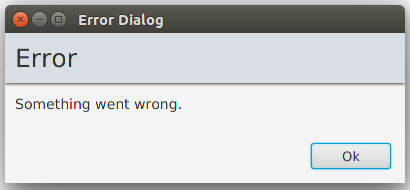
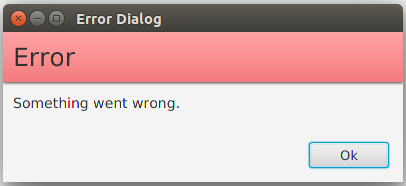
Replace all screenshots for the new color set

diff --git a/src/main/java/com/github/daytron/simpledialogfx/dialog/GenericOKDialog.java b/src/main/java/com/github/daytron/simpledialogfx/dialog/GenericOKDialog.java
@@ -1,0 +1,104 @@
+/*
+ * The MIT License
+ *
+ * Copyright 2014 Ryan Gilera.
+ *
+ * Permission is hereby granted, free of charge, to any person obtaining a copy
+ * of this software and associated documentation files (the "Software"), to deal
+ * in the Software without restriction, including without limitation the rights
+ * to use, copy, modify, merge, publish, distribute, sublicense, and/or sell
+ * copies of the Software, and to permit persons to whom the Software is
+ * furnished to do so, subject to the following conditions:
+ *
+ * The above copyright notice and this permission notice shall be included in
+ * all copies or substantial portions of the Software.
+ *
+ * THE SOFTWARE IS PROVIDED "AS IS", WITHOUT WARRANTY OF ANY KIND, EXPRESS OR
+ * IMPLIED, INCLUDING BUT NOT LIMITED TO THE WARRANTIES OF MERCHANTABILITY,
+ * FITNESS FOR A PARTICULAR PURPOSE AND NONINFRINGEMENT. IN NO EVENT SHALL THE
+ * AUTHORS OR COPYRIGHT HOLDERS BE LIABLE FOR ANY CLAIM, DAMAGES OR OTHER
+ * LIABILITY, WHETHER IN AN ACTION OF CONTRACT, TORT OR OTHERWISE, ARISING FROM,
+ * OUT OF OR IN CONNECTION WITH THE SOFTWARE OR THE USE OR OTHER DEALINGS IN
+ * THE SOFTWARE.
+ */
+package com.github.daytron.simpledialogfx.dialog;
+
+import com.github.daytron.simpledialogfx.data.DialogResponse;
+import com.github.daytron.simpledialogfx.data.DialogText;
+import com.github.daytron.simpledialogfx.data.Fxml;
+import java.io.IOException;
+import java.net.URL;
+import java.util.ResourceBundle;
+import javafx.application.Platform;
+import javafx.event.ActionEvent;
+import javafx.fxml.FXML;
+import javafx.fxml.FXMLLoader;
+import javafx.fxml.Initializable;
+import javafx.scene.Parent;
+import javafx.scene.Scene;
+import javafx.scene.control.Button;
+import javafx.scene.control.Label;
+import javafx.scene.layout.HBox;
+
+/**
+ * FXML Controller class
+ *
+ * @author Ryan Gilera
+ */
+public final class ErrorDialog extends Dialog implements Initializable {
+    @FXML
+    private Label messageLabel;
+    @FXML
+    private Label detailsLabel;
+    @FXML
+    private HBox okParent;
+    @FXML
+    private Button okButton;
+
+
+    private DialogResponse response;
+    
+    public ErrorDialog(String header, String details) {
+        super(header, details);
+        
+        FXMLLoader fxmlLoader = new FXMLLoader(getClass()
+                .getResource(Fxml.ERROR_DIALOG.getFxml()));
+        fxmlLoader.setController(this);
+        
+        centerOnScreen();
+        setTitle(DialogText.ERROR_HEAD_TITLE.getText());
+        
+        try {
+            setScene(new Scene((Parent) fxmlLoader.load()));
+        } catch (IOException e) {
+            e.printStackTrace();
+        }
+
+    }
+    
+    /**
+     * Initializes the controller class.
+     */
+    @Override
+    public void initialize(URL url, ResourceBundle rb) {
+        // Set default focus to OK button
+        Platform.runLater(new Runnable() {
+            @Override
+            public void run() {
+                okButton.requestFocus();
+            }
+        });
+
+        this.detailsLabel.setWrapText(true);
+
+        this.messageLabel.setText(getHeader());
+        this.detailsLabel.setText(getDetails());
+    }    
+
+    @FXML
+    private void ok_btn_on_click(ActionEvent event) {
+        this.response = DialogResponse.OK;
+        close();
+    }
+    
+}
